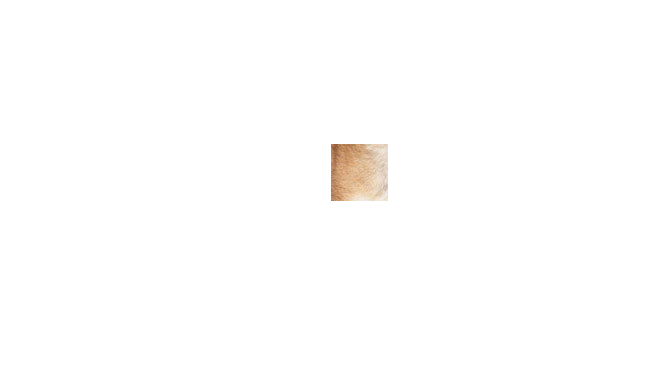
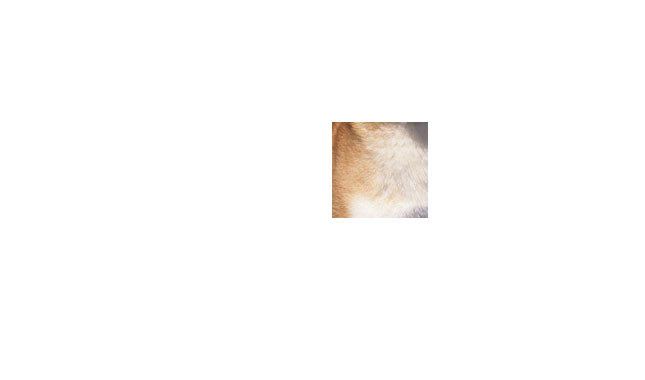
This or This v0.2.17 - Doggo or Joystick

Changed region(s): [[0.4961, 0.3184, 0.6822, 0.5789]]

diff --git a/includes/mvc/views/view.header.php b/includes/mvc/views/view.header.php
@@ -166,8 +166,9 @@
                   <li><a href="http://localhost/this-or-this/pt"><?php _t('Portuguese'); ?></a></li>
                 </ul>
                 <ul id="nav-mobile" class="side-nav">
-                    <li><a href="http://<?php _t('localhost/this-or-this');?>/tot/"><i class="material-icons">format_list_bulleted</i>Choose a category</a></li>
                     <li><a class="dropdown-button" href="#!" data-activates="lang_dropdown_mobile"><?php _t('Languages'); ?><i class="material-icons right">arrow_drop_down</i></a></li>
+                    <li><a href="http://<?php _t('localhost/this-or-this');?>/tot/"><i class="material-icons">format_list_bulleted</i><?php _t('Choose a category'); ?></a></li>
+                    <li><a href="http://<?php _t('localhost/this-or-this');?>/infinite/"><?php _t('Infinite Mode'); ?></a></li>
                 </ul>
                 <a href="#" data-activates="nav-mobile" class="button-collapse right"><i class="material-icons">menu</i></a>
               </div>

diff --git a/includes/mvc/controllers/controller.ajax.php b/includes/mvc/controllers/controller.ajax.php
@@ -68,7 +68,8 @@ class Ajax_Controller extends Application{
               require_once('includes/mvc/controllers/ajax/controller.ajax.' . $action_data['controller']['file_name'] . '.php');
               $controller_name = $action_data['controller']['controller_name'].'_Controller';
               $this->ajax_controller = new $controller_name();
-              return $this->ajax_controller->$action_data['action']();
+              $function_name = $action_data['action'];
+              return $this->ajax_controller->$function_name();
             }
         }
     }

diff --git a/includes/translations/general.php b/includes/translations/general.php
@@ -597,6 +597,22 @@ function general_translations() {
 			'pt' => "Calvo ou Joelho",
 			'context' => '',
 		),
+		array(
+			'en' => "Doggo or Joystick",
+			'fr' => "Chien ou Joystick",
+			'de' => "Hund oder Joystick",
+			'es' => "Perro o Joystick",
+			'pt' => "Cão ou Joystick",
+			'context' => '',
+		),
+		array(
+			'en' => "Joystick",
+			'fr' => "Joystick",
+			'de' => "Joystick",
+			'es' => "Joystick",
+			'pt' => "Joystick",
+			'context' => '',
+		),
 		/*array(
 			'en' => "",
 			'fr' => "",

diff --git a/includes/mvc/views/view.tot.php b/includes/mvc/views/view.tot.php
@@ -295,7 +295,7 @@ class Tot_View {
                   },
                   error: function (thrownError) {
                       console.log(thrownError);
-                      alert(thrownError.responseText);
+                      //alert(thrownError.responseText);
                   },
                   complete: function () {
                   },
